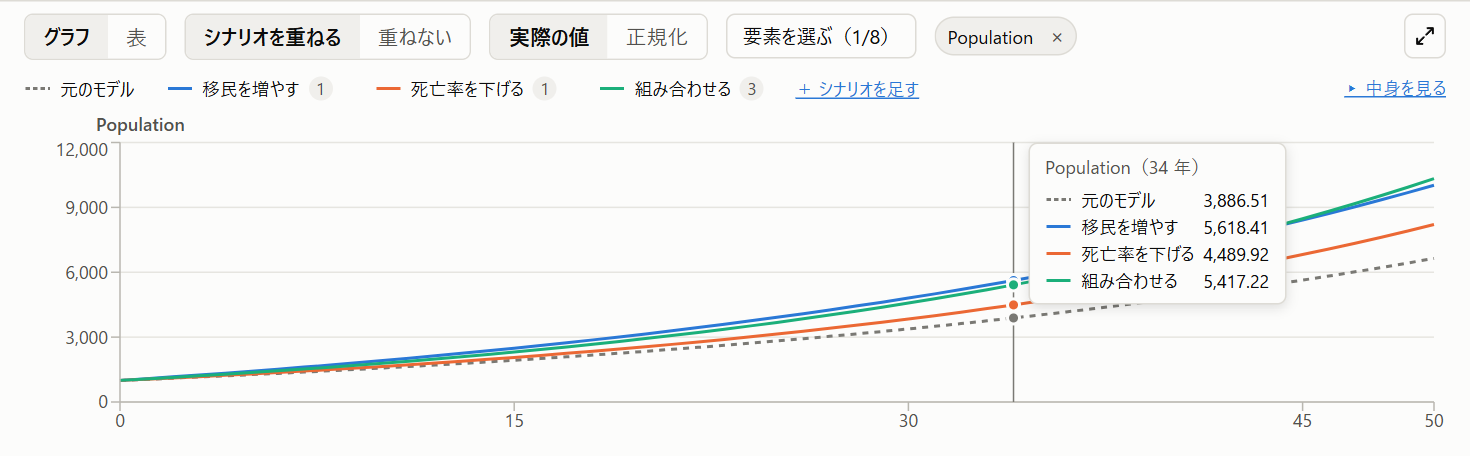
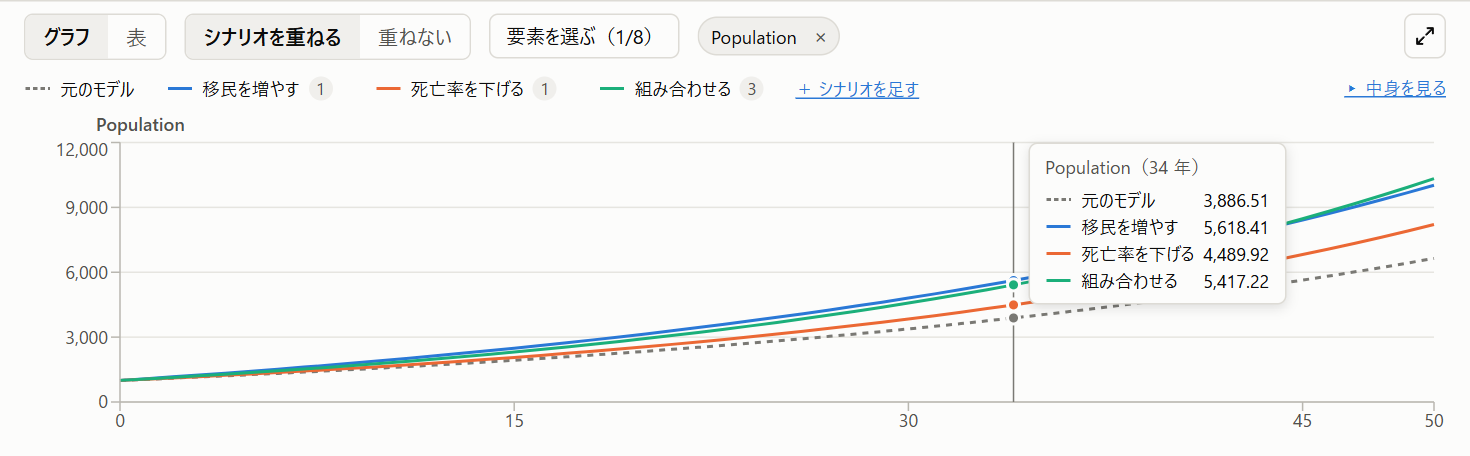
グラフの正規化の機能を削除する (#20)
ほとんど使っていない縦軸の「実際の値／正規化」の切り替えを消し、グラフはいつも実際の値で描く。web/src/normalize.ts とそのテスト、文書の正規化の説明と画像、撮影スクリプトの正規化の場面を消し、切り替えが写っていたスクリーンショットを撮り直した。

Changed region(s): [[0.3367, 0.0307, 0.6122, 0.1535], [0.6429, 0.0614, 0.7347, 0.1228]]

diff --git a/web/src/Chart.tsx b/web/src/Chart.tsx
@@ -3,7 +3,6 @@ import { CartesianGrid, Line, LineChart, ResponsiveContainer, Tooltip, XAxis, YA
 import type { ActualDataResult, ModelJSON, RunResult, ScenarioPatch, ScenarioRunResult } from "../../src/viewer/api.js";
 import { sameTime, withActualPoints } from "./actualPoints.js";
 import { renamedName } from "./editing.js";
-import { normalize, normalizeLike, normalizeTogether } from "./normalize.js";
 import {
   addableValues,
   BASELINE_NAME,
@@ -85,31 +84,7 @@ function assignSlots(visible: string[], prev: Map<string, number>): Map<string, 
 /** 線の色の割り当てを、名前を変えたあとの名前にする */
 const renamedKeys = (slots: Map<string, number>, renamed: [string, string][]) => new Map([...slots].map(([n, slot]) => [renamedName(n, renamed), slot]));
 
-/**
- * 縦軸の決め方。
- * - value: 値そのまま
- * - normalized: 要素ごとに、最小を 0%、最大を 100% にそろえる。大きさの違う要素の、増え方や減り方の形を比べるため
- */
-type Scale = "value" | "normalized";
-const SCALE_KEY = "viewer.chartScale";
-function loadScale(): Scale {
-  try {
-    return localStorage.getItem(SCALE_KEY) === "normalized" ? "normalized" : "value";
-  } catch {
-    return "value";
-  }
-}
-function saveScale(scale: Scale) {
-  try {
-    localStorage.setItem(SCALE_KEY, scale);
-  } catch {
-    // 覚えられなくても動く
-  }
-}
-
-const formatPercent = (v: number) => `${Math.round(v * 100)}%`;
-
-/** シナリオの凡例を開いて、シナリオの中身の表にしているか（縦軸と同じく、ブラウザに覚えておく） */
+/** シナリオの凡例を開いて、シナリオの中身の表にしているか（ブラウザに覚えておく） */
 const MATRIX_KEY = "viewer.scenarioMatrix";
 function loadMatrixOpen(): boolean {
   try {
@@ -197,7 +172,6 @@ export function Chart({
   const visible = useMemo(() => (renamed?.length ? chosen.map((n) => renamedName(n, renamed)) : chosen), [chosen, renamed]);
   const slots = useMemo(() => (renamed?.length ? renamedKeys(chosenSlots, renamed) : chosenSlots), [chosenSlots, renamed]);
   const [view, setView] = useState<"chart" | "table">("chart");
-  const [scale, setScaleState] = useState<Scale>(loadScale);
   // シナリオを重ねるか。シナリオが保存されていれば、はじめは重ねる
   const [overlay, setOverlay] = useState(true);
   const compare = useMemo(() => compareRuns(run, scenarios ?? [], MAX_SERIES), [run, scenarios]);
@@ -245,10 +219,6 @@ export function Chart({
   // 図に知らせる。知らせる先が変わったり、グラフが消えたりしたら、前の先には「外した」と知らせる
   useEffect(() => onHoverTime?.(hoverTime), [hoverTime, onHoverTime]);
   useEffect(() => () => onHoverTime?.(undefined), [onHoverTime]);
-  const setScale = (s: Scale) => {
-    setScaleState(s);
-    saveScale(s);
-  };
 
   // 別のモデルを開いたら選び直す。同じモデルの更新では、名前の変わった要素は新しい名前にし、消えた要素だけ外す
   const [shownModel, setShownModel] = useState(modelName);
@@ -295,27 +265,25 @@ export function Chart({
 
   // Recharts の dataKey は「.」を入れ子のパスとして読むので、要素名ではなく番号で持つ
   const keyOf = (name: string) => `s${names.indexOf(name)}`;
-  // 行には時刻と行の番号（i）を持たせる。ツールチップは正規化していても、番号から元の値を出す
+  // 行には時刻と行の番号（i）を持たせる。ツールチップは番号から元の値を出す
   const data = useMemo(() => {
-    const series = new Map(visible.map((n) => [n, scale === "normalized" ? normalize(run.series[n] ?? []) : (run.series[n] ?? [])]));
     return run.times.map((t, i) => {
       const row: Record<string, number | null> = { t, i };
-      for (const n of visible) row[keyOf(n)] = series.get(n)?.[i] ?? null;
+      for (const n of visible) row[keyOf(n)] = run.series[n]?.[i] ?? null;
       return row;
     });
-  }, [run, visible, names, scale]); // eslint-disable-line react-hooks/exhaustive-deps
-  // 実際のデータの点。モデルの線と同じ行に入れる。正規化するときはモデルの線と同じ目盛りにする
+  }, [run, visible, names]); // eslint-disable-line react-hooks/exhaustive-deps
+  // 実際のデータの点。モデルの線と同じ行に入れる
   const actualKeyOf = (name: string) => `a${names.indexOf(name)}`;
   const withActual = useMemo(() => {
     const points = new Map<string, { t: number; v: number }[]>();
     for (const n of visible) {
       const values = actual?.series[n];
       if (!values) continue;
-      const scaled = scale === "normalized" ? normalizeLike(values, run.series[n] ?? []) : values;
-      points.set(actualKeyOf(n), actual!.times.flatMap((t, i) => (scaled[i] == null ? [] : [{ t, v: scaled[i]! }])));
+      points.set(actualKeyOf(n), actual!.times.flatMap((t, i) => (values[i] == null ? [] : [{ t, v: values[i]! }])));
     }
     return { rows: withActualPoints(data, points, visible.map(keyOf)), names: visible.filter((n) => points.has(actualKeyOf(n))) };
-  }, [data, actual, run, visible, names, scale]); // eslint-disable-line react-hooks/exhaustive-deps
+  }, [data, actual, visible, names]); // eslint-disable-line react-hooks/exhaustive-deps
   const unit = TIME_UNIT_LABEL[run.time_units.toLowerCase()] ?? run.time_units;
   const colorOf = (name: string) => `var(${SLOTS[slots.get(name) ?? 0]})`;
 
@@ -373,32 +341,6 @@ export function Chart({
             ＋ シナリオを足す
           </button>
         )}
-        {view === "chart" && (
-          <div className="segmented" role="radiogroup" aria-label="縦軸">
-            <button
-              role="radio"
-              aria-checked={scale === "value"}
-              className={scale === "value" ? "on" : ""}
-              onClick={() => setScale("value")}
-              title="値をそのまま出します"
-            >
-              実際の値
-            </button>
-            <button
-              role="radio"
-              aria-checked={scale === "normalized"}
-              className={scale === "normalized" ? "on" : ""}
-              onClick={() => setScale("normalized")}
-              title={
-                comparing
-                  ? "要素ごとに、どのシナリオも通した最小を 0%、最大を 100% にそろえます"
-                  : "要素ごとに、最小を 0%、最大を 100% にそろえます。大きさの違う要素の、変わり方の形を比べられます"
-              }
-            >
-              正規化
-            </button>
-          </div>
-        )}
         <SeriesPicker candidates={candidates} visible={visible} colorOf={colorOf} plain={comparing} onToggle={toggle} />
         {/* 凡例を兼ねる。出している要素だけを色つきで出し、× で外せる。シナリオを重ねているときの色はシナリオのものなので、要素には色を付けない */}
         <ul className="series-legend" aria-label="表示している要素">
@@ -442,7 +384,7 @@ export function Chart({
       ) : comparing && view === "chart" ? (
         <div className="compare-grid">
           {visible.map((n) => (
-            <CompareChart key={n} name={n} times={run.times} runs={compare.runs} unit={unit} scale={scale} actual={actual} onHover={setHoverTime} />
+            <CompareChart key={n} name={n} times={run.times} runs={compare.runs} unit={unit} actual={actual} onHover={setHoverTime} />
           ))}
         </div>
       ) : comparing ? (
@@ -496,7 +438,7 @@ export function Chart({
                 label={{ value: `時間（${unit}）`, position: "insideBottomRight", offset: -4, fill: "var(--text-secondary)", fontSize: 12 }}
                 height={36}
               />
-              {yAxis(scale)}
+              {yAxis()}
               <Tooltip
                 cursor={{ stroke: "var(--text-muted)", strokeWidth: 1 }}
                 content={(p: TooltipContentProps) => <ChartTooltip {...p} unit={unit} visible={visible} run={run} actual={actual} colorOf={colorOf} />}
@@ -561,20 +503,9 @@ export function Chart({
   );
 }
 
-/** 縦軸。正規化しているときは 0%〜100% */
-function yAxis(scale: Scale) {
-  return scale === "normalized" ? (
-    <YAxis
-      domain={[0, 1]}
-      ticks={[0, 0.25, 0.5, 0.75, 1]}
-      tick={{ fill: "var(--text-secondary)", fontSize: 12 }}
-      stroke="var(--axis)"
-      tickFormatter={formatPercent}
-      width={72}
-    />
-  ) : (
-    <YAxis tick={{ fill: "var(--text-secondary)", fontSize: 12 }} stroke="var(--axis)" tickFormatter={(v: number) => formatValue(v)} width={72} />
-  );
+/** 縦軸 */
+function yAxis() {
+  return <YAxis tick={{ fill: "var(--text-secondary)", fontSize: 12 }} stroke="var(--axis)" tickFormatter={(v: number) => formatValue(v)} width={72} />;
 }
 
 /** シナリオの中身の表で、はじめから出す「変えた値」の行の数。超えたぶんは畳んで「ほか N 件」で開く */
@@ -1548,7 +1479,6 @@ const CompareChart = memo(function CompareChart({
   times,
   runs,
   unit,
-  scale,
   actual,
   onHover,
 }: {
@@ -1556,15 +1486,13 @@ const CompareChart = memo(function CompareChart({
   times: number[];
   runs: CompareRun[];
   unit: string;
-  scale: Scale;
   actual?: ActualDataResult;
   onHover(t: number | undefined): void;
 }) {
-  // 行には時刻と行の番号（i）を持たせる。ツールチップは正規化していても、番号から元の値を出す
-  // 実際のデータの点も同じ行に入れる（キーは a）。正規化するときは、どのシナリオも通した最小と最大を目盛りにする
+  // 行には時刻と行の番号（i）を持たせる。ツールチップは番号から元の値を出す
+  // 実際のデータの点も同じ行に入れる（キーは a）
   const data = useMemo(() => {
-    const raw = runs.map((r) => r.series[name] ?? []);
-    const series = scale === "normalized" ? normalizeTogether(raw) : raw;
+    const series = runs.map((r) => r.series[name] ?? []);
     const rows = times.map((t, i) => {
       const row: Record<string, number | null> = { t, i };
       series.forEach((values, k) => (row[`r${k}`] = values[i] ?? null));
@@ -1572,10 +1500,9 @@ const CompareChart = memo(function CompareChart({
     });
     const values = actual?.series[name];
     if (!values) return rows;
-    const scaled = scale === "normalized" ? normalizeLike(values, raw.flat()) : values;
-    const points = actual!.times.flatMap((t, i) => (scaled[i] == null ? [] : [{ t, v: scaled[i]! }]));
+    const points = actual!.times.flatMap((t, i) => (values[i] == null ? [] : [{ t, v: values[i]! }]));
     return withActualPoints(rows, new Map([["a", points]]), runs.map((_, k) => `r${k}`));
-  }, [name, times, runs, scale, actual]);
+  }, [name, times, runs, actual]);
   return (
     <figure className="compare-cell">
       <figcaption title={name}>{name}</figcaption>
@@ -1597,7 +1524,7 @@ const CompareChart = memo(function CompareChart({
               stroke="var(--axis)"
               height={24}
             />
-            {yAxis(scale)}
+            {yAxis()}
             <Tooltip
               cursor={{ stroke: "var(--text-muted)", strokeWidth: 1 }}
               content={(p: TooltipContentProps) => <CompareTooltip {...p} unit={unit} name={name} runs={runs} actual={actual} />}
@@ -1638,7 +1565,7 @@ const CompareChart = memo(function CompareChart({
   );
 });
 
-/** シナリオを重ねたグラフのツールチップ。正規化していても実際の値を出す */
+/** シナリオを重ねたグラフのツールチップ */
 function CompareTooltip(p: TooltipContentProps & { unit: string; name: string; runs: CompareRun[]; actual?: ActualDataResult }) {
   if (!p.active || !p.payload?.length) return null;
   const row = p.payload[0]!.payload as Record<string, number | null>;

diff --git a/tests/viewer-actual-points.test.ts b/tests/viewer-actual-points.test.ts
@@ -1,6 +1,5 @@
 import { describe, expect, test } from "vitest";
 import { sameTime, withActualPoints } from "../web/src/actualPoints.js";
-import { normalizeLike } from "../web/src/normalize.js";
 
 const rows = () => [
   { t: 0, i: 0, s0: 100 },
@@ -36,9 +35,5 @@ describe("実際のデータの点をグラフの行に入れる", () => {
   test("刻みの小数の誤差は同じ時刻とみなす", () => {
     expect(sameTime(0.1 + 0.2, 0.3)).toBe(true);
     expect(sameTime(0.3, 0.31)).toBe(false);
-  });
-
-  test("正規化するときは、モデルの線の最小と最大を目盛りにする", () => {
-    expect(normalizeLike([150, null, 50], [100, 200])).toEqual([0.5, null, -0.5]);
   });
 });

diff --git a/docs/VIEWER.md b/docs/VIEWER.md
@@ -222,11 +222,8 @@ AI は `find_loops` でフィードバックループを探し、`view_diagram` 
 - **同時に出せるのは 8 本まで：** 8 本出しているときは、一覧のほかの要素は選べなくなります。1 本外すと選べるようになります
 - **色は要素ごとに決まる：** ほかの要素を出し入れしても、出ている線の色は変わりません
 - **値を読む：** グラフの上にカーソルを乗せると、その時刻の値が出ます
-- **正規化：** 「実際の値」と「正規化」で縦軸を切り替えられます。正規化にすると、要素ごとに最小を 0%、最大を 100% にそろえて出します。大きさの違う要素（人口と出生率など）の、増え方や減り方の形を比べたいときに使います。カーソルを乗せて出る値は、正規化していても実際の値です。ずっと同じ値の要素は 50% の高さに平らに出ます。どちらにしたかはブラウザが覚えています
 
 ![要素を選ぶ一覧](images/viewer/picker.png)
-
-![正規化したグラフ](images/viewer/normalized.png)
 
 ### 表
 
@@ -244,7 +241,6 @@ AI は `find_loops` でフィードバックループを探し、`view_diagram` 
 - **シナリオの色：** シナリオごとに色が決まります。グラフの上の帯がシナリオの凡例です。シナリオの名前の横の小さな数字は、そのシナリオで変えた値の数です。カーソルを乗せると、シナリオの説明と、変える値が出ます。同時に重ねられるシナリオは 8 つまでです。9 つ目からはグラフに出さず、そのことを凡例の下に出します
 - **要素を選ぶ：** 「要素を選ぶ」で選んだ要素ごとに、小さなグラフが並びます。入りきらないときは、グラフの欄を縦にスクロールします
 - **値を読む：** グラフの上にカーソルを乗せると、その時刻の、どのシナリオの値も出ます
-- **正規化：** 要素ごとに、どのシナリオも通した最小を 0%、最大を 100% にそろえます。シナリオどうしの高さの違いはそのまま比べられます
 - **表：** 列は「要素 × シナリオ」です。シナリオの凡例の帯も、グラフのときと同じように出ます
 - **重ねない：** 「重ねない」を押すと、シナリオを保存する前と同じ、元のモデルだけのグラフに戻ります
 - **その場で変わる：** AI がシナリオの値を変えたり、シナリオを足したり消したりすると、グラフがその場で変わります。実行できないシナリオがあると、グラフの上にその理由を出します
@@ -306,8 +302,7 @@ AI は `find_loops` でフィードバックループを探し、`view_diagram` 
 
 ### 値の見方の注意
 
-- 縦軸は 1 本だけです。大きさの違う要素（人口と出生率など）を「実際の値」で一緒に出すと、小さいほうは 0 の近くにつぶれて見えます。そのときは「正規化」に切り替えるか、片方ずつ見てください
-- 正規化したグラフでは、線どうしの高さで大きさは比べられません（どの線も 0% から 100% に広がるため）。大きさを比べるときは「実際の値」か表で見てください
+- 縦軸は 1 本だけです。大きさの違う要素（人口と出生率など）を一緒に出すと、小さいほうは 0 の近くにつぶれて見えます。そのときは片方ずつ見るか、表で見てください
 - 数字は、絶対値が 100 以上なら小数 2 桁まで、それより小さければ 4 桁までに丸めて出します。とても大きい値や小さい値は `1.234e+9` のような形になります
 
 ### 実際のデータを重ねる
@@ -322,7 +317,6 @@ AI は `find_loops` でフィードバックループを探し、`view_diagram` 
 - **列名が要素名と合わないとき：** 左の「問題」に警告として出し、似た名前があれば「もしかして」を添えます。合わない列は描きません。時刻がシミュレーションの期間と重ならないときも知らせます
 - **名前を変えたとき：** 要素の名前を変えると（AI に頼んでも、画面で変えても）、CSV の列名も直します（見出しの行だけを書き換え、値はそのまま残します）。「元に戻す」で名前を戻すと、列名も戻します。CSV を Excel などで開いていて直せなかったときは、名前の変更は保存したうえで、黄色の帯で知らせます。そのときは列名を手で直してください
 - **シナリオを重ねているとき：** 要素ごとのグラフにも、データの点を重ねます。線の色はシナリオを表すので、点は文字と同じ色の白抜きの丸にします
-- **正規化したとき：** データの点は、モデルの線と同じ目盛り（モデルの最小が 0%、最大が 100%）で出します。そのため、データが 0% から 100% の外に出ることがあります
 
 ## 要素の詳しい情報
 
